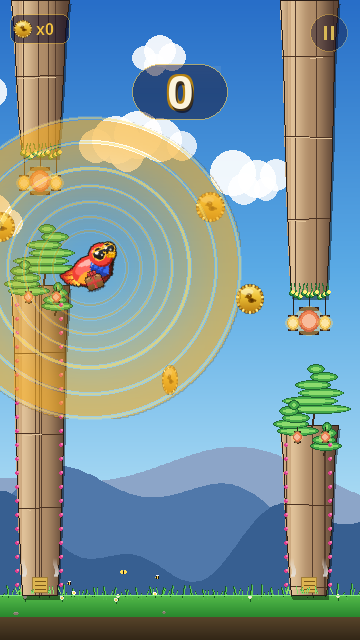
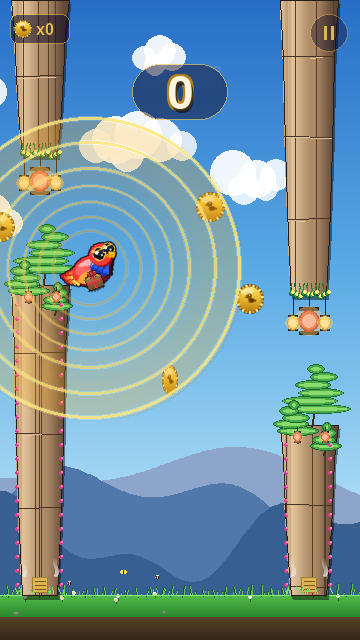
MEGA MAGNET: bake B1 (subtle bolder outer halos) into the live field
User picked B1 from the bold-outward variant set.

Two changes to game/scenes.py:

  1. Mega gradient backdrop softened to match the regular magnet's
     calibration (bell peak 0.85, falloff 0.15, alpha 72) — was
     the "aggressive" peak-at-outer alpha-160 variant before. The
     boldness of the field now comes from the outer RING tuples
     rather than from a dense gold glow.

  2. Outer two ring tuples extend the regular's bold-outward ramp:
       1.00 (existing): alpha 180, width 3, (255, 220, 100)
       1.15 (was 150,2): alpha 200, width 3, (255, 225, 110)
       1.30 (was 130,2): alpha 220, width 3, (255, 230, 120)
     The 5 inner rings (rfac 0.40 → 1.00) are untouched.

33/33 tests still pass. Live in-game comparison saved at
docs/screenshots/mega_magnet/compare_regular_vs_mega.png.

Changed region(s): [[0.0, 0.1562, 0.6722, 0.6562]]

diff --git a/game/scenes.py b/game/scenes.py
@@ -47,11 +47,15 @@ def _get_mega_gradient_surface():
             if d > max_r:
                 continue
             inner_t = d / max_r
-            # Bell curve peaks at inner_t = 1.0 so the brightest gold
-            # sits AT the outermost ring. Wide falloff (0.40) keeps a
-            # gentle tint flowing all the way to the centre.
-            bell = math.exp(-((inner_t - 1.0) ** 2) / 0.40)
-            a = int(160 * bell)
+            # Bell curve peaks at inner_t = 0.85 (same as regular
+            # magnet's calibration), falloff 0.15, alpha mult 72 —
+            # this is the SOFT gradient the user picked over the
+            # earlier "aggressive" peak-at-outer alpha-160 variant.
+            # The boldness of the field comes from the outer RING
+            # tuples (B1 stack — alpha 200/220, width 3) rather
+            # than from a dense gold glow.
+            bell = math.exp(-((inner_t - 0.85) ** 2) / 0.15)
+            a = int(72 * bell)
             if a > 0:
                 surf.set_at((x, y), (*GLOW_COL, a))
     _MEGA_GRADIENT_SURFACE = surf
@@ -1292,8 +1296,14 @@ class App:
 
             AA_COL = (255, 240, 180)
             for rfac, phase, alpha, width, breath_scale, ring_col in (
-                    (1.30, -0.6, 130, 2, 0.62, (255, 225, 115)),
-                    (1.15, -0.3, 150, 2, 0.78, (255, 220, 105)),
+                    # B1 — outer halos extend the regular's bold-
+                    # outward pattern (alpha + width climb with rfac).
+                    # 1.00 ships at alpha 180/w3; 1.15 bumps to 200/w3
+                    # and 1.30 to 220/w3 so the field reads bolder
+                    # as the rings grow, matching the regular magnet's
+                    # gradient direction.
+                    (1.30, -0.6, 220, 3, 0.62, (255, 230, 120)),
+                    (1.15, -0.3, 200, 3, 0.78, (255, 225, 110)),
                     (1.00, 0.0,  180, 3, 1.00, (255, 220, 100)),
                     (0.85, 0.3,  165, 2, 0.92, (255, 210,  85)),
                     (0.70, 0.6,  150, 2, 0.85, (250, 195,  65)),
